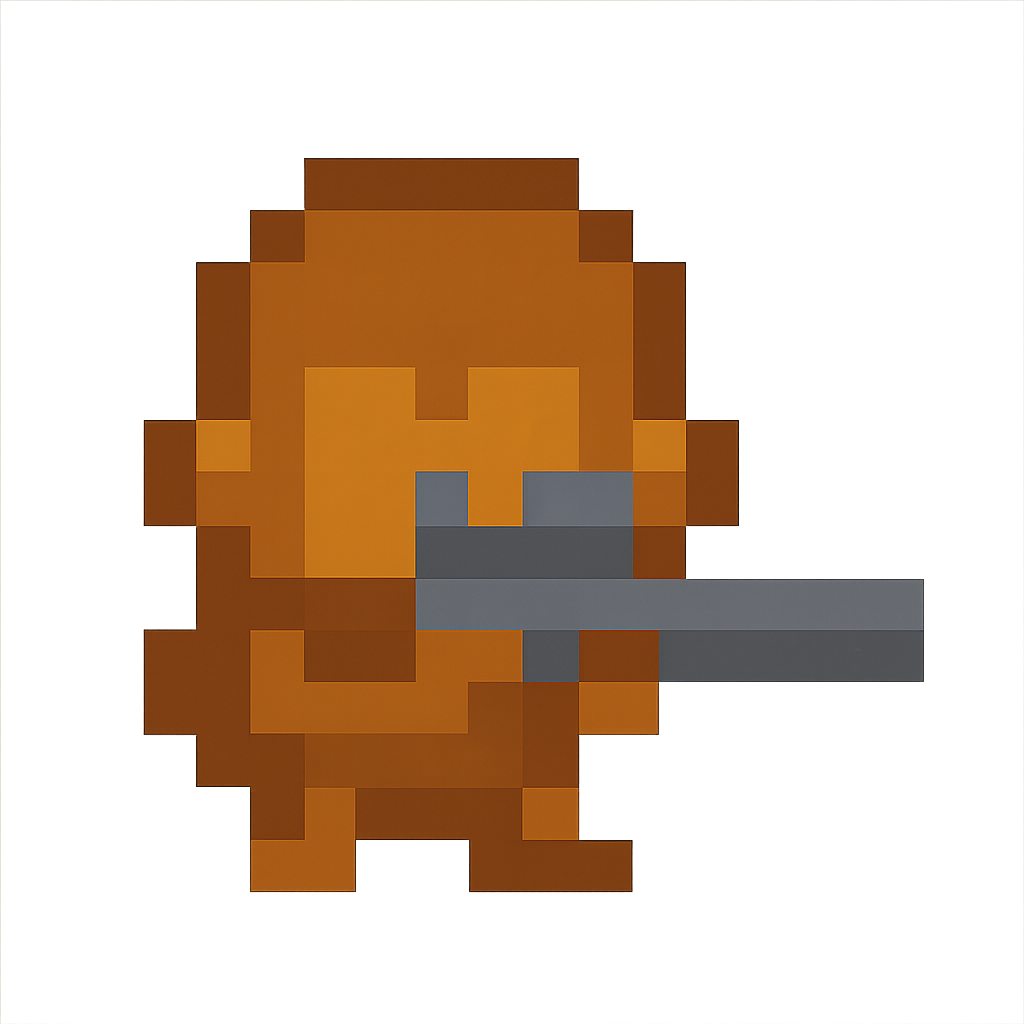
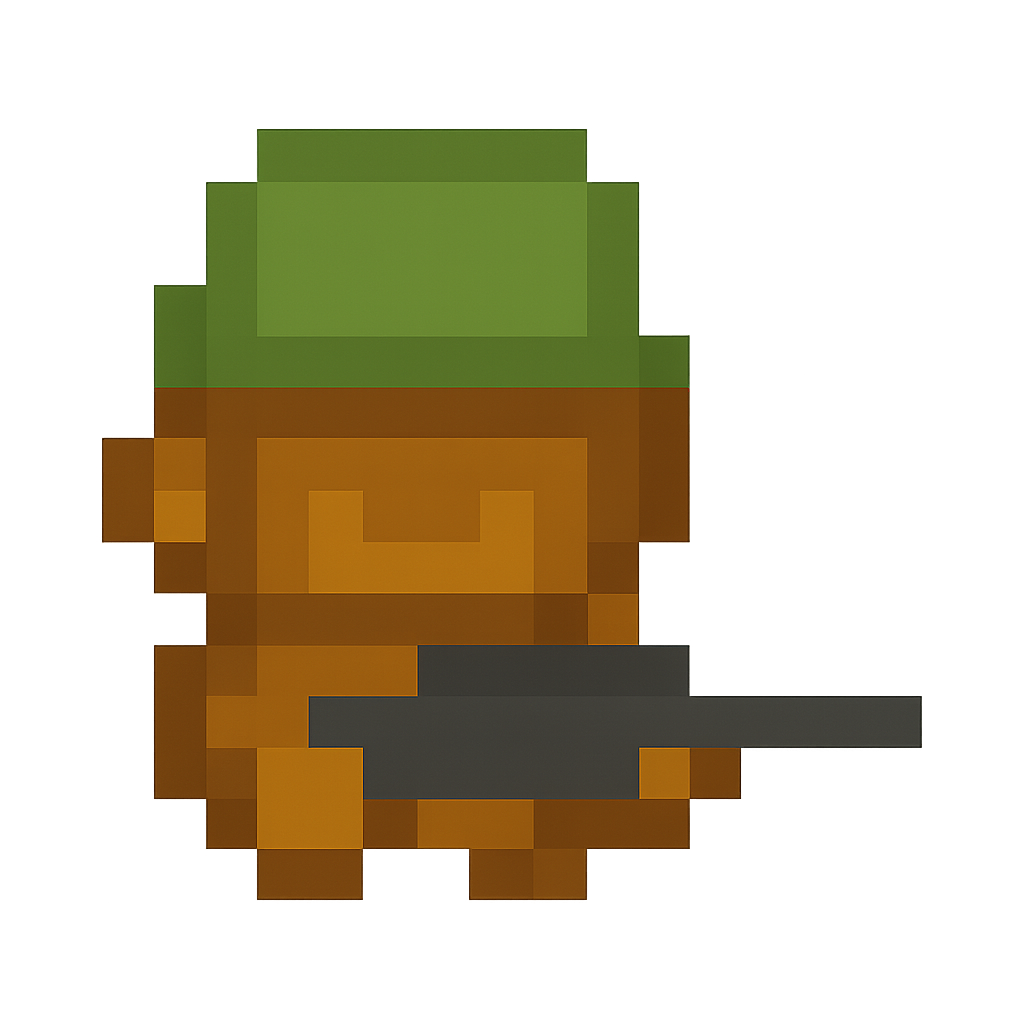
more ui changes

diff --git a/user_interface.py b/user_interface.py
@@ -92,7 +92,7 @@ class GameUI:
 
     def select_tower(self, tower_type):
         """Start tower placement if player has enough money."""
-        costs = {"dart": 100, "sniper": 200, "bomb": 300}
+        costs = {"dart": 100, "sniper": 200}
         cost = costs[tower_type]
 
         if self.game.money >= cost:
@@ -117,9 +117,18 @@ class GameUI:
                 ranges[self.selected_tower_type],
                 1,
             )
-            pygame.draw.circle(
-                screen, color, mouse_pos, self.selected_tower_radius
-            )
+
+            # Draw the actual tower sprite at the mouse position
+            tower_classes = {
+                "dart": DartTower,
+                "sniper": SniperTower,
+                # "bomb": BombTower,
+            }
+            tower_preview = tower_classes[self.selected_tower_type]()
+            tower_preview.x, tower_preview.y = mouse_pos
+            tower_preview.update_position(*mouse_pos)
+            tower_preview.update()
+            screen.blit(tower_preview.image, tower_preview.rect)
 
         # Draw selected tower indicator
         for tower in self.game.towers:
